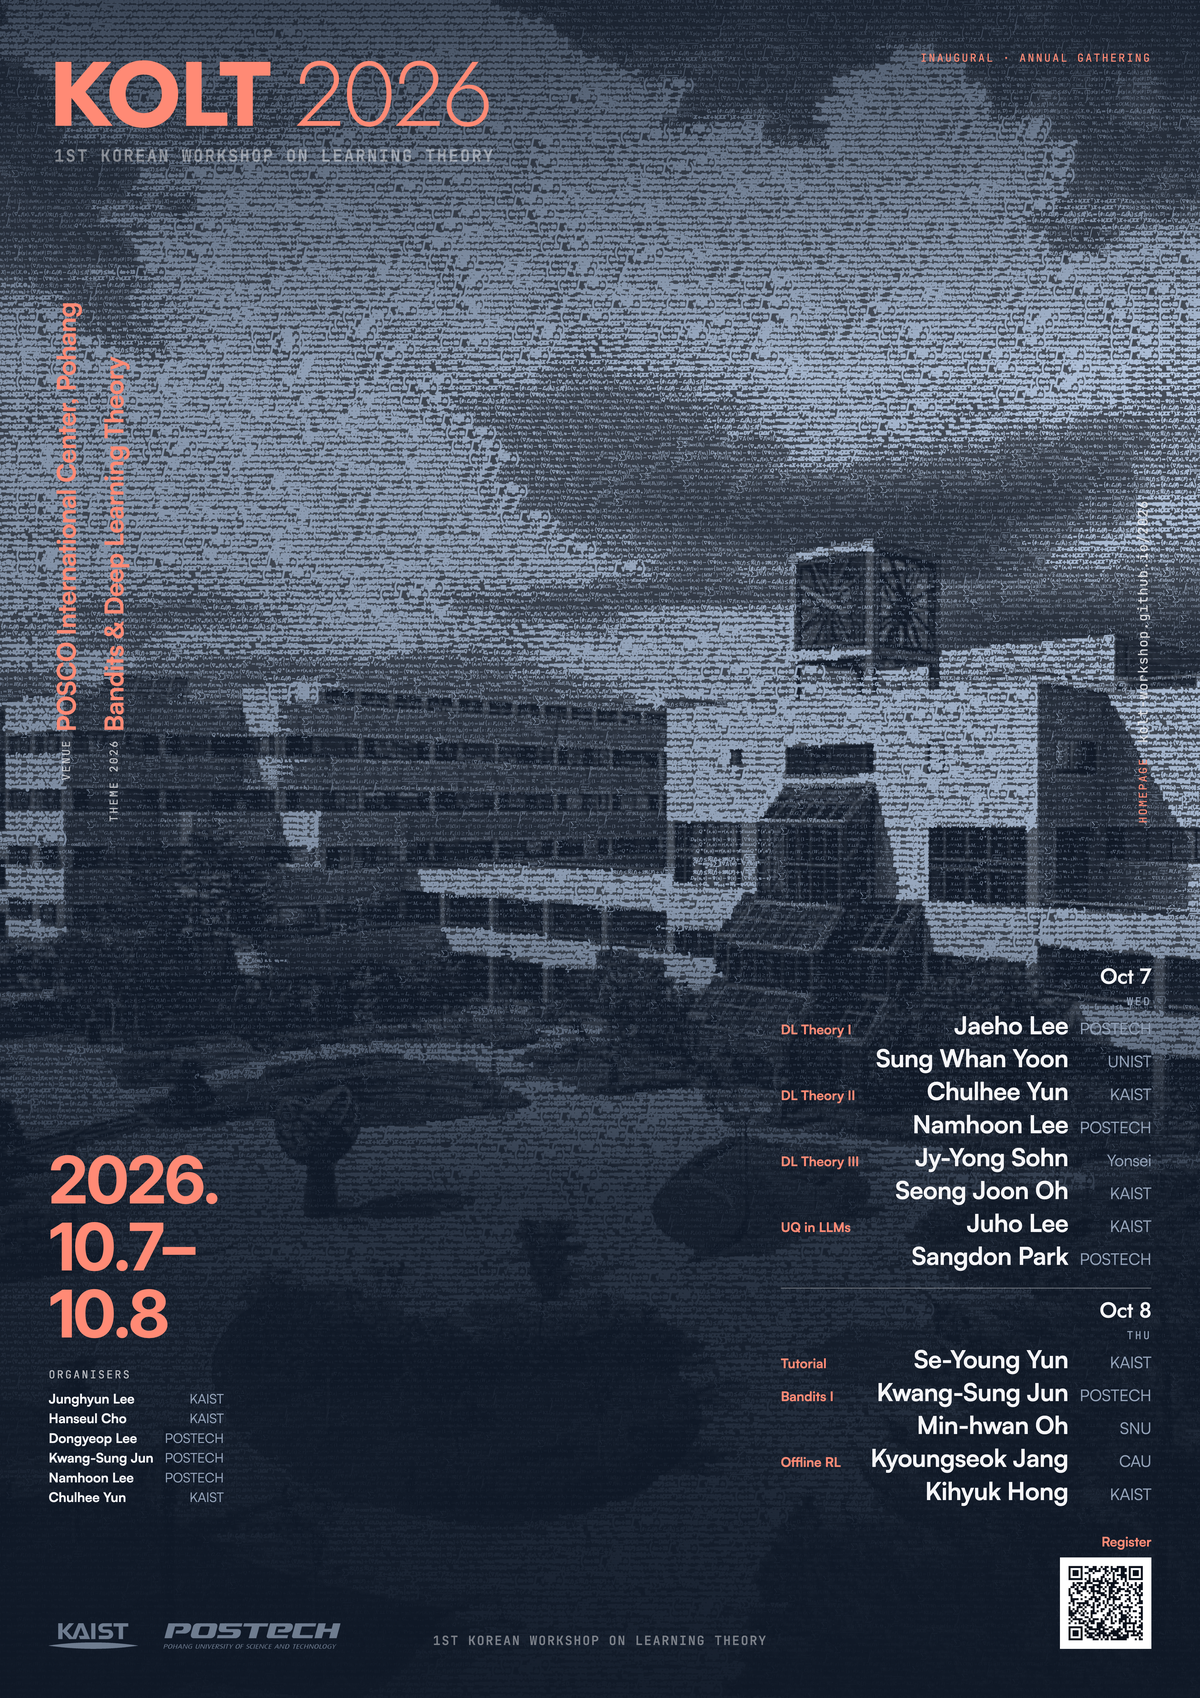
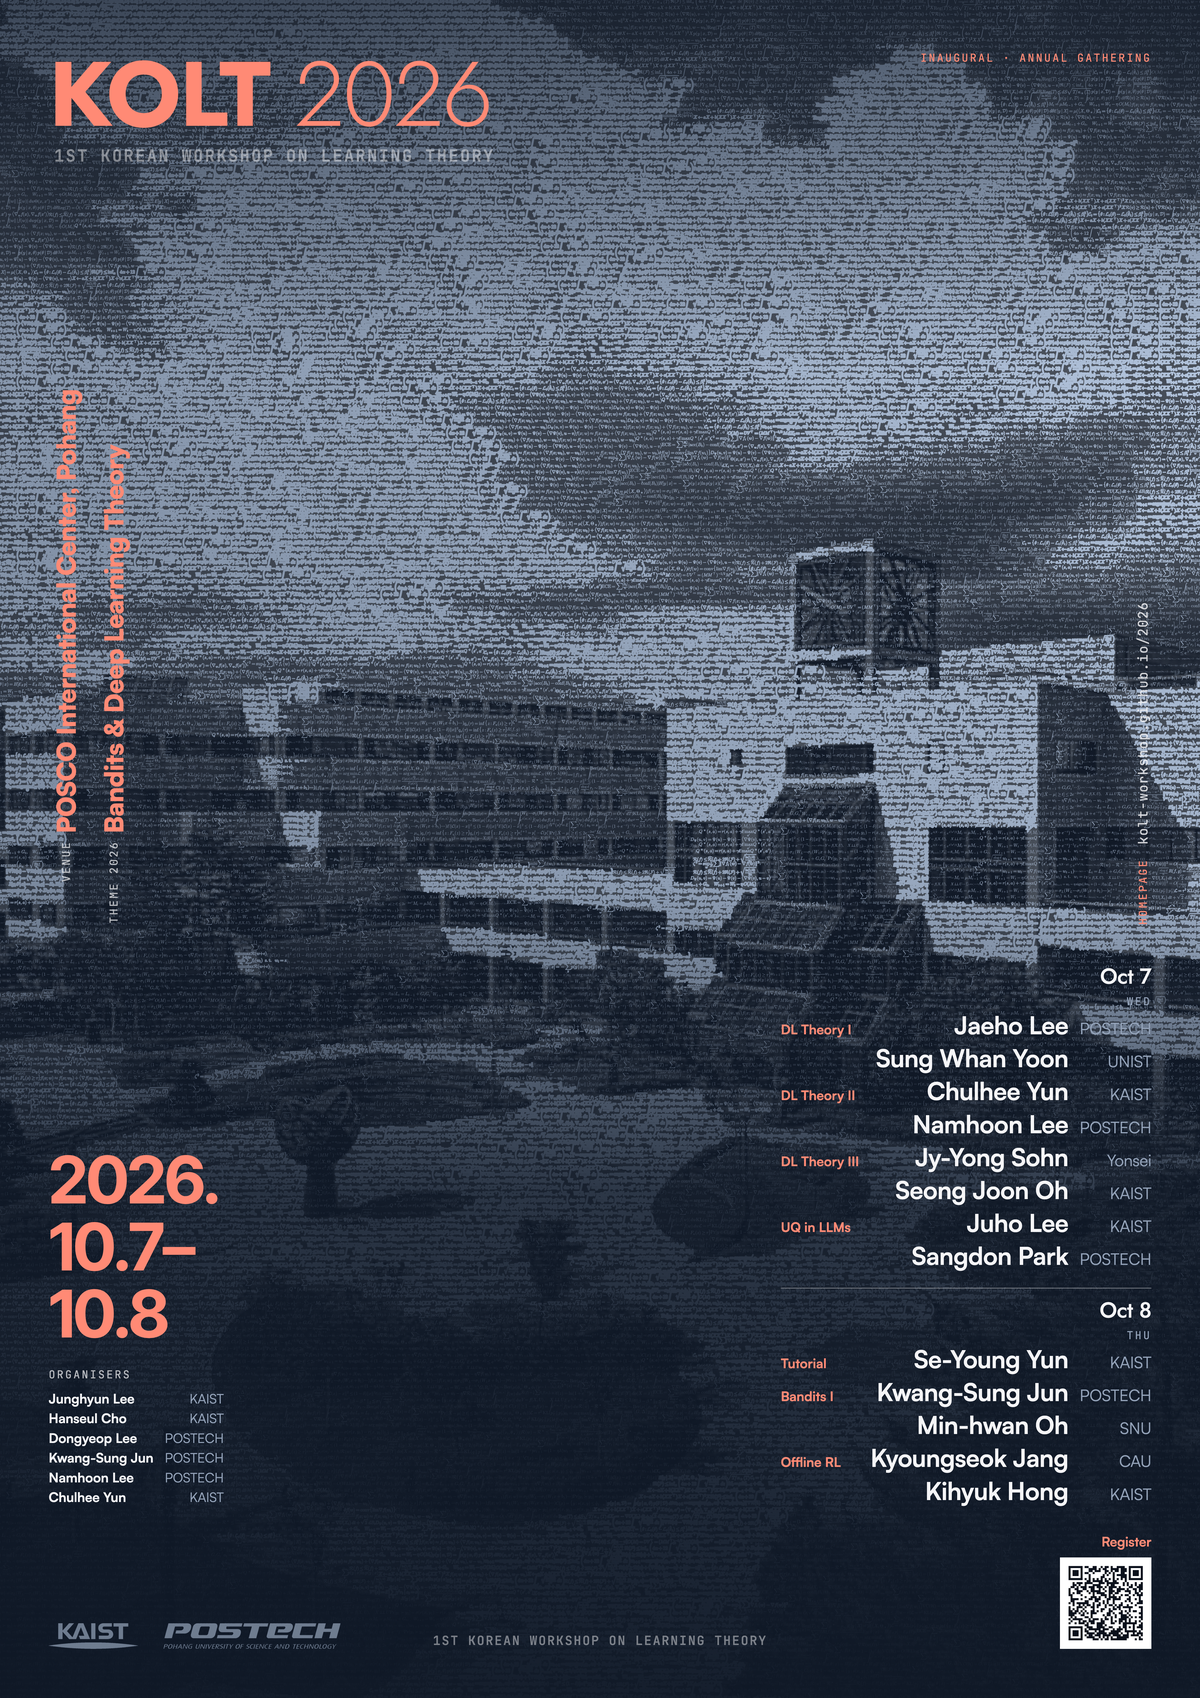
Rails in Black, and moved to where they are actually read
Two changes to the venue and the theme, and the accent colour is not one of
them.

Black rather than Bold. A contrast ratio says nothing about how much of the
letter there is, and over a busy drawing that is most of what legibility is:
at 900 the rails put down 11.8% ink in their strip against 10.4% at 700, and
they hold the edge without anything behind them changing.

And down 33mm. Auto margins had been centring them between the title and the
panel, but the panel opens with the programme's right-hand column, while the
thing on the left they are read against is the date — which starts 66mm lower.
Measured on the sheet: title bottom 61.3mm, date top 403.9mm, midpoint 232.6mm,
and the rails were sitting at 199.8. They now centre at 232.8.

Nothing else moves: mark 4.2:1, rails 3.7:1, programme 15.2:1, mean 70.5.

Changed region(s): [[0.0308, 0.1873, 0.1233, 0.4994], [0.925, 0.3433, 0.9558, 0.4994]]

diff --git a/tools/poster.py b/tools/poster.py
@@ -323,6 +323,7 @@ TEMPLATE = """<!doctype html>
   @font-face {{ font-family:"Satoshi"; font-weight:400; src:url("fonts/satoshi-400.woff2") format("woff2"); }}
   @font-face {{ font-family:"Satoshi"; font-weight:500; src:url("fonts/satoshi-500.woff2") format("woff2"); }}
   @font-face {{ font-family:"Satoshi"; font-weight:700; src:url("fonts/satoshi-700.woff2") format("woff2"); }}
+  @font-face {{ font-family:"Satoshi"; font-weight:900; src:url("fonts/satoshi-900.woff2") format("woff2"); }}
   html, body {{ margin:0; padding:0; }}
   .sheet {{
     position:relative; width:426mm; height:600mm; overflow:hidden;
@@ -466,6 +467,7 @@ LISTING = """<!doctype html>
   @font-face {{ font-family:"Satoshi"; font-weight:400; src:url("fonts/satoshi-400.woff2") format("woff2"); }}
   @font-face {{ font-family:"Satoshi"; font-weight:500; src:url("fonts/satoshi-500.woff2") format("woff2"); }}
   @font-face {{ font-family:"Satoshi"; font-weight:700; src:url("fonts/satoshi-700.woff2") format("woff2"); }}
+  @font-face {{ font-family:"Satoshi"; font-weight:900; src:url("fonts/satoshi-900.woff2") format("woff2"); }}
   html, body {{ margin:0; padding:0; }}
   /* One ink on one ground, and every division drawn as a hairline rule. The
      layout is a stack of boxes with nothing between them, so the sheet has no
@@ -577,6 +579,7 @@ FESTIVAL = """<!doctype html>
   @font-face {{ font-family:"Satoshi"; font-weight:400; src:url("fonts/satoshi-400.woff2") format("woff2"); }}
   @font-face {{ font-family:"Satoshi"; font-weight:500; src:url("fonts/satoshi-500.woff2") format("woff2"); }}
   @font-face {{ font-family:"Satoshi"; font-weight:700; src:url("fonts/satoshi-700.woff2") format("woff2"); }}
+  @font-face {{ font-family:"Satoshi"; font-weight:900; src:url("fonts/satoshi-900.woff2") format("woff2"); }}
   html, body {{ margin:0; padding:0; }}
   .sheet {{
     position:relative; width:426mm; height:600mm; overflow:hidden;
@@ -662,8 +665,14 @@ FESTIVAL = """<!doctype html>
      equally, and the panel below keeps its place because the column is a fixed
      height and there is nothing left for it to move into. Fixed at 118mm the
      gap above and the gap below were whatever the two blocks happened to
-     leave. */
-  .rails {{ display:flex; gap:4.5mm; margin:auto 0; }}
+     leave.
+
+     Then nudged down 33mm. Auto margins centre the rails between the title and
+     the panel, but the panel opens with the programme's right-hand column and
+     the thing on the left they are actually read against is the date, which
+     starts 66mm lower. Measured on the sheet: title bottom 61.3, date top
+     403.9, so the midpoint is 232.6 and the rails were sitting at 199.8. */
+  .rails {{ display:flex; gap:4.5mm; margin:auto 0; position:relative; top:33mm; }}
   .rail {{
     writing-mode:vertical-rl; transform:rotate(180deg);
     font-family:"Satoshi","Helvetica Neue",sans-serif; color:{hot};
@@ -715,9 +724,13 @@ FESTIVAL = """<!doctype html>
     color:{ink}; opacity:.72;
   }}
   .side h4 {{ color:{ink}; opacity:.72; margin:7mm 0 2.5mm; }}
+  /* Black, not Bold. A contrast ratio says nothing about how much of the
+     letter there is, and on a busy drawing that is most of what legibility is:
+     at 900 the rails put down 12.0% ink against 10.4% at 700, and the thicker
+     stroke is what lets the strip behind them stay lighter. */
   .rail span {{
     font-family:"Satoshi","Helvetica Neue",sans-serif; font-size:9mm;
-    font-weight:700; letter-spacing:-.014em; color:{hot};
+    font-weight:900; letter-spacing:-.014em; color:{hot};
   }}
   /* A third rail on the opposite edge. It is a member of the same flex row
      rather than its own absolute block, which is what makes the alignment
@@ -943,6 +956,7 @@ BANNER = """<!doctype html>
   @font-face {{ font-family:"Satoshi"; font-weight:400; src:url("fonts/satoshi-400.woff2") format("woff2"); }}
   @font-face {{ font-family:"Satoshi"; font-weight:500; src:url("fonts/satoshi-500.woff2") format("woff2"); }}
   @font-face {{ font-family:"Satoshi"; font-weight:700; src:url("fonts/satoshi-700.woff2") format("woff2"); }}
+  @font-face {{ font-family:"Satoshi"; font-weight:900; src:url("fonts/satoshi-900.woff2") format("woff2"); }}
   html, body {{ margin:0; padding:0; }}
   .sheet {{
     position:relative; width:5000mm; height:900mm; overflow:hidden;
@@ -1042,6 +1056,7 @@ XBANNER = """<!doctype html>
   @font-face {{ font-family:"Satoshi"; font-weight:400; src:url("fonts/satoshi-400.woff2") format("woff2"); }}
   @font-face {{ font-family:"Satoshi"; font-weight:500; src:url("fonts/satoshi-500.woff2") format("woff2"); }}
   @font-face {{ font-family:"Satoshi"; font-weight:700; src:url("fonts/satoshi-700.woff2") format("woff2"); }}
+  @font-face {{ font-family:"Satoshi"; font-weight:900; src:url("fonts/satoshi-900.woff2") format("woff2"); }}
   html, body {{ margin:0; padding:0; }}
   .sheet {{
     position:relative; width:600mm; height:1800mm; overflow:hidden;
@@ -1185,6 +1200,7 @@ SOCIAL = """<!doctype html>
   @font-face {{ font-family:"Satoshi"; font-weight:400; src:url("fonts/satoshi-400.woff2") format("woff2"); }}
   @font-face {{ font-family:"Satoshi"; font-weight:500; src:url("fonts/satoshi-500.woff2") format("woff2"); }}
   @font-face {{ font-family:"Satoshi"; font-weight:700; src:url("fonts/satoshi-700.woff2") format("woff2"); }}
+  @font-face {{ font-family:"Satoshi"; font-weight:900; src:url("fonts/satoshi-900.woff2") format("woff2"); }}
   html, body {{ margin:0; padding:0; background:#000; }}
   .card {{
     position:relative; width:1080px; height:1080px; overflow:hidden;
@@ -1412,6 +1428,7 @@ BADGE = """<!doctype html>
   @font-face {{ font-family:"Satoshi"; font-weight:400; src:url("fonts/satoshi-400.woff2") format("woff2"); }}
   @font-face {{ font-family:"Satoshi"; font-weight:500; src:url("fonts/satoshi-500.woff2") format("woff2"); }}
   @font-face {{ font-family:"Satoshi"; font-weight:700; src:url("fonts/satoshi-700.woff2") format("woff2"); }}
+  @font-face {{ font-family:"Satoshi"; font-weight:900; src:url("fonts/satoshi-900.woff2") format("woff2"); }}
   html, body {{ margin:0; padding:0; background:#000; }}
   .card {{
     position:relative; width:90mm; height:130mm; overflow:hidden;
@@ -1528,6 +1545,7 @@ ACADEMIC = """<!doctype html>
   @font-face {{ font-family:"Satoshi"; font-weight:400; src:url("fonts/satoshi-400.woff2") format("woff2"); }}
   @font-face {{ font-family:"Satoshi"; font-weight:500; src:url("fonts/satoshi-500.woff2") format("woff2"); }}
   @font-face {{ font-family:"Satoshi"; font-weight:700; src:url("fonts/satoshi-700.woff2") format("woff2"); }}
+  @font-face {{ font-family:"Satoshi"; font-weight:900; src:url("fonts/satoshi-900.woff2") format("woff2"); }}
   html, body {{ margin:0; padding:0; }}
   .sheet {{
     position:relative; width:426mm; height:600mm; overflow:hidden;
